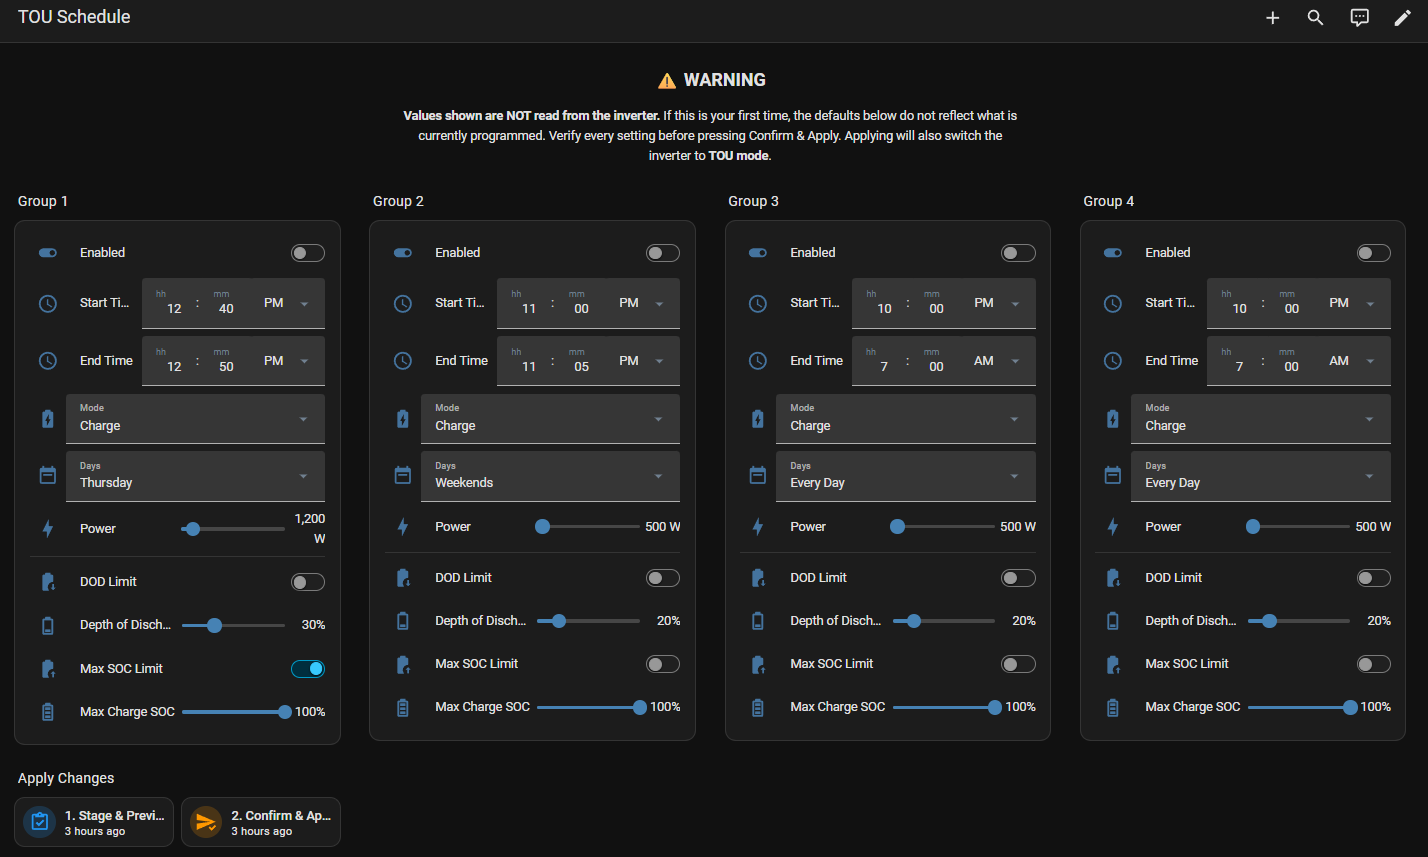
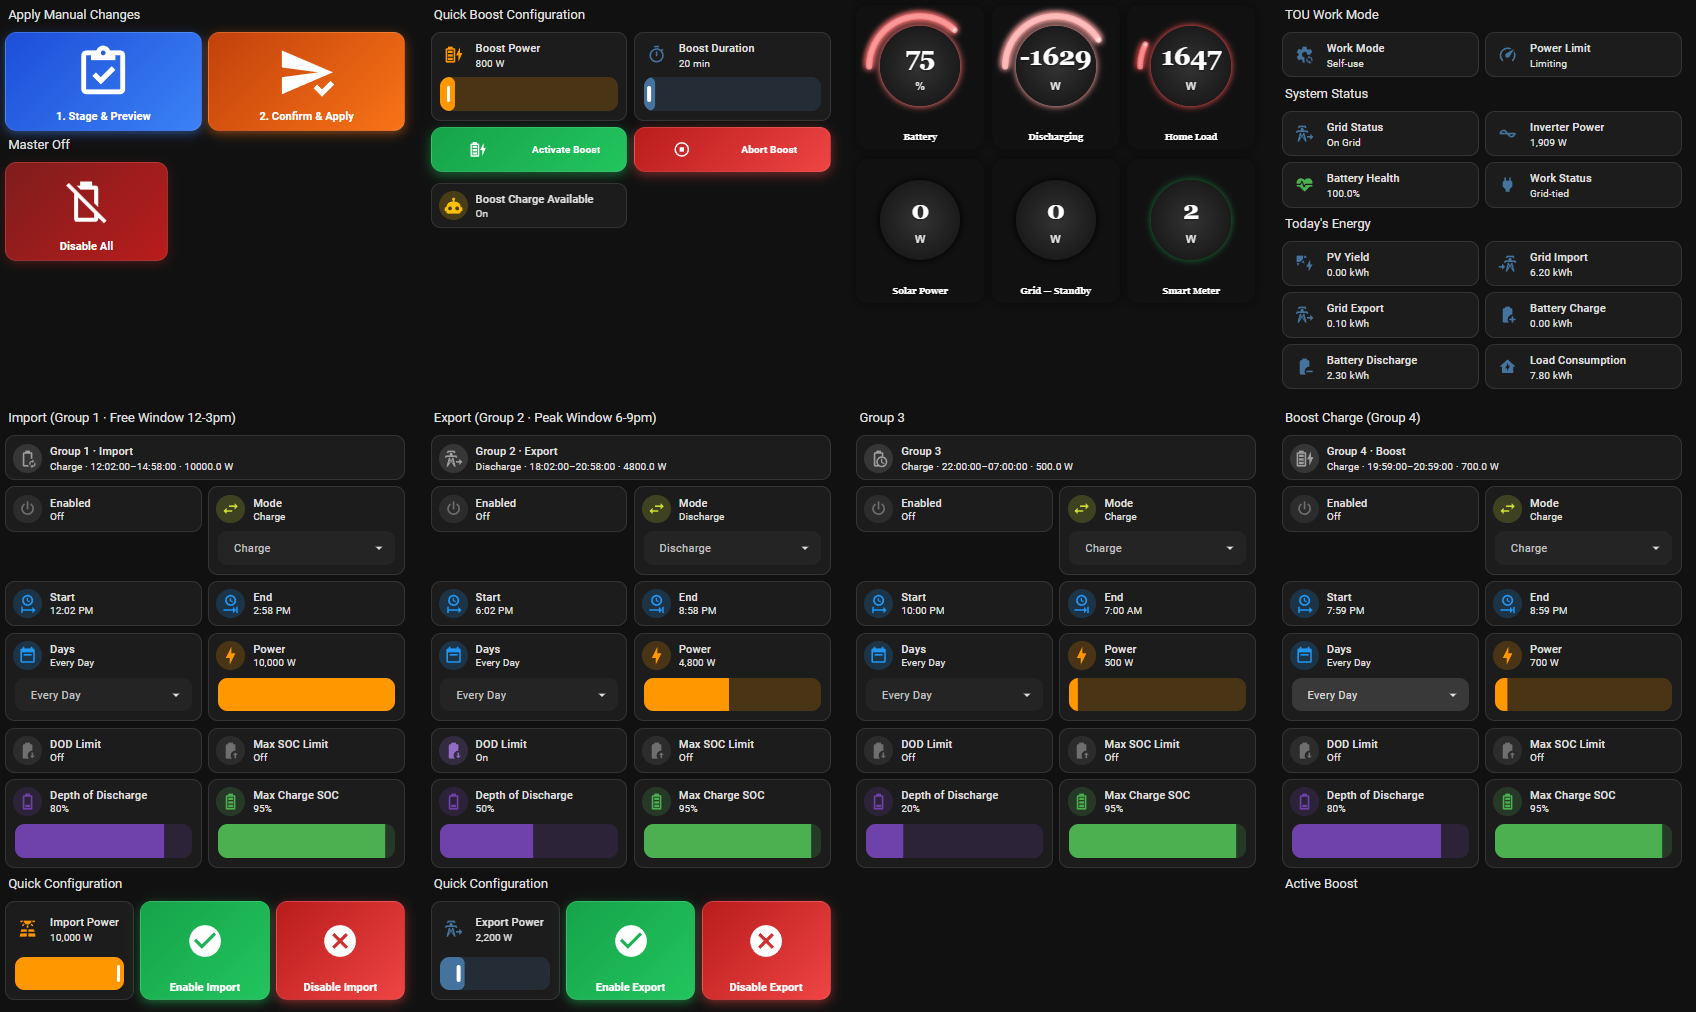
Rename to Dyness Inverter Control, 1% TOU step, v2.7.2
- TOU Depth of Discharge and Max Charge SOC number entities now
  step by 1% instead of 5% (tou_entities.py)
- Rebrand from "Dyness Battery - Cygni Control" to
  "Dyness Inverter Control" across manifest.json, hacs.json,
  strings.json and all translations
- Point manifest documentation/issue_tracker at this repo instead
  of upstream
- Soften "personal fork" framing in README while keeping the
  upstream fork credit and safety warnings
- Refresh TOU and Settings dashboard screenshots
- Bump version to 2.7.2

diff --git a/custom_components/dyness_battery_cygni/tou_entities.py b/custom_components/dyness_battery_cygni/tou_entities.py
@@ -290,7 +290,7 @@ def TouDodNumber(coordinator, entry, group: int) -> _TouNumber:
     return _TouNumber(
         coordinator, entry, group,
         suffix="dod", ref_key=f"g{group}_dod",
-        min_v=0, max_v=95, step=5,
+        min_v=0, max_v=95, step=1,
         unit="%", icon="mdi:battery-low",
         tk=f"tou_g{group}_dod", default=_DEFAULT_DOD,
     )
@@ -300,7 +300,7 @@ def TouSocMaxNumber(coordinator, entry, group: int) -> _TouNumber:
     return _TouNumber(
         coordinator, entry, group,
         suffix="soc_max", ref_key=f"g{group}_soc_max",
-        min_v=10, max_v=100, step=5,
+        min_v=10, max_v=100, step=1,
         unit="%", icon="mdi:battery-high",
         tk=f"tou_g{group}_soc_max", default=_DEFAULT_SOC_MAX,
     )

diff --git a/README.md b/README.md
@@ -1,16 +1,16 @@
-# Dyness Battery – Cygni Control (Personal Fork)
+# Dyness Inverter Control
 
-[![Version](https://img.shields.io/badge/version-2.7.1-blue)](https://github.com/aistuartai/dyness_battery_stu/releases)
+[![Version](https://img.shields.io/badge/version-2.7.2-blue)](https://github.com/aistuartai/dyness_battery_stu/releases)
 [![License: MIT](https://img.shields.io/badge/License-MIT-yellow.svg)](LICENSE)
 [![HACS Custom](https://img.shields.io/badge/HACS-Custom-orange.svg)](https://github.com/hacs/integration)
 
-> **Personal fork** of [shopf/dyness_battery](https://github.com/shopf/dyness_battery), extended with full inverter control for the **Dyness Cygni 10.0HS-M8** (and Cygni HS series generally).
+> A fork of [shopf/dyness_battery](https://github.com/shopf/dyness_battery), extended with full inverter control for the **Dyness Cygni 10.0HS-M8** (and Cygni HS series generally).
 >
-> Tested on a single setup. Use at your own risk. For a stable, multi-device integration use the upstream repo.
+> ⚠️ Tested on a single setup. Use at your own risk — verify every setting before applying changes to live hardware.
 
 ---
 
-## What this fork adds
+## What this adds
 
 On top of all upstream sensors, this fork adds **write control** via the Dyness v2 API — configuring the inverter directly from Home Assistant without touching the Dyness app.
 
@@ -18,7 +18,7 @@ All settings use a **two-step Stage → Confirm** flow to prevent accidental wri
 
 ### Configurable Polling Interval
 
-Set how often HA polls the Dyness cloud API — configurable at setup and at any time via **Settings → Integrations → Dyness Battery → Configure**.
+Set how often HA polls the Dyness cloud API — configurable at setup and at any time via **Settings → Integrations → Dyness Inverter Control → Configure**.
 
 | Option | Calls/hour (1 module) | Notes |
 |--------|----------------------|-------|
@@ -296,8 +296,8 @@ views:
 
 1. In HACS → **Integrations** → **⋮** → **Custom repositories**
 2. Add: `https://github.com/aistuartai/dyness_battery_stu` — Category: **Integration**
-3. Install **Dyness Battery - Cygni Control**, restart HA
-4. **Settings** → **Devices & Services** → **Add Integration** → search **Dyness Battery - Cygni**
+3. Install **Dyness Inverter Control**, restart HA
+4. **Settings** → **Devices & Services** → **Add Integration** → search **Dyness Inverter Control**
 5. Enter your **API ID** and **API Secret** from [ems.dyness.com](https://ems.dyness.com/login) → Developer Center → API Management
 
 ---